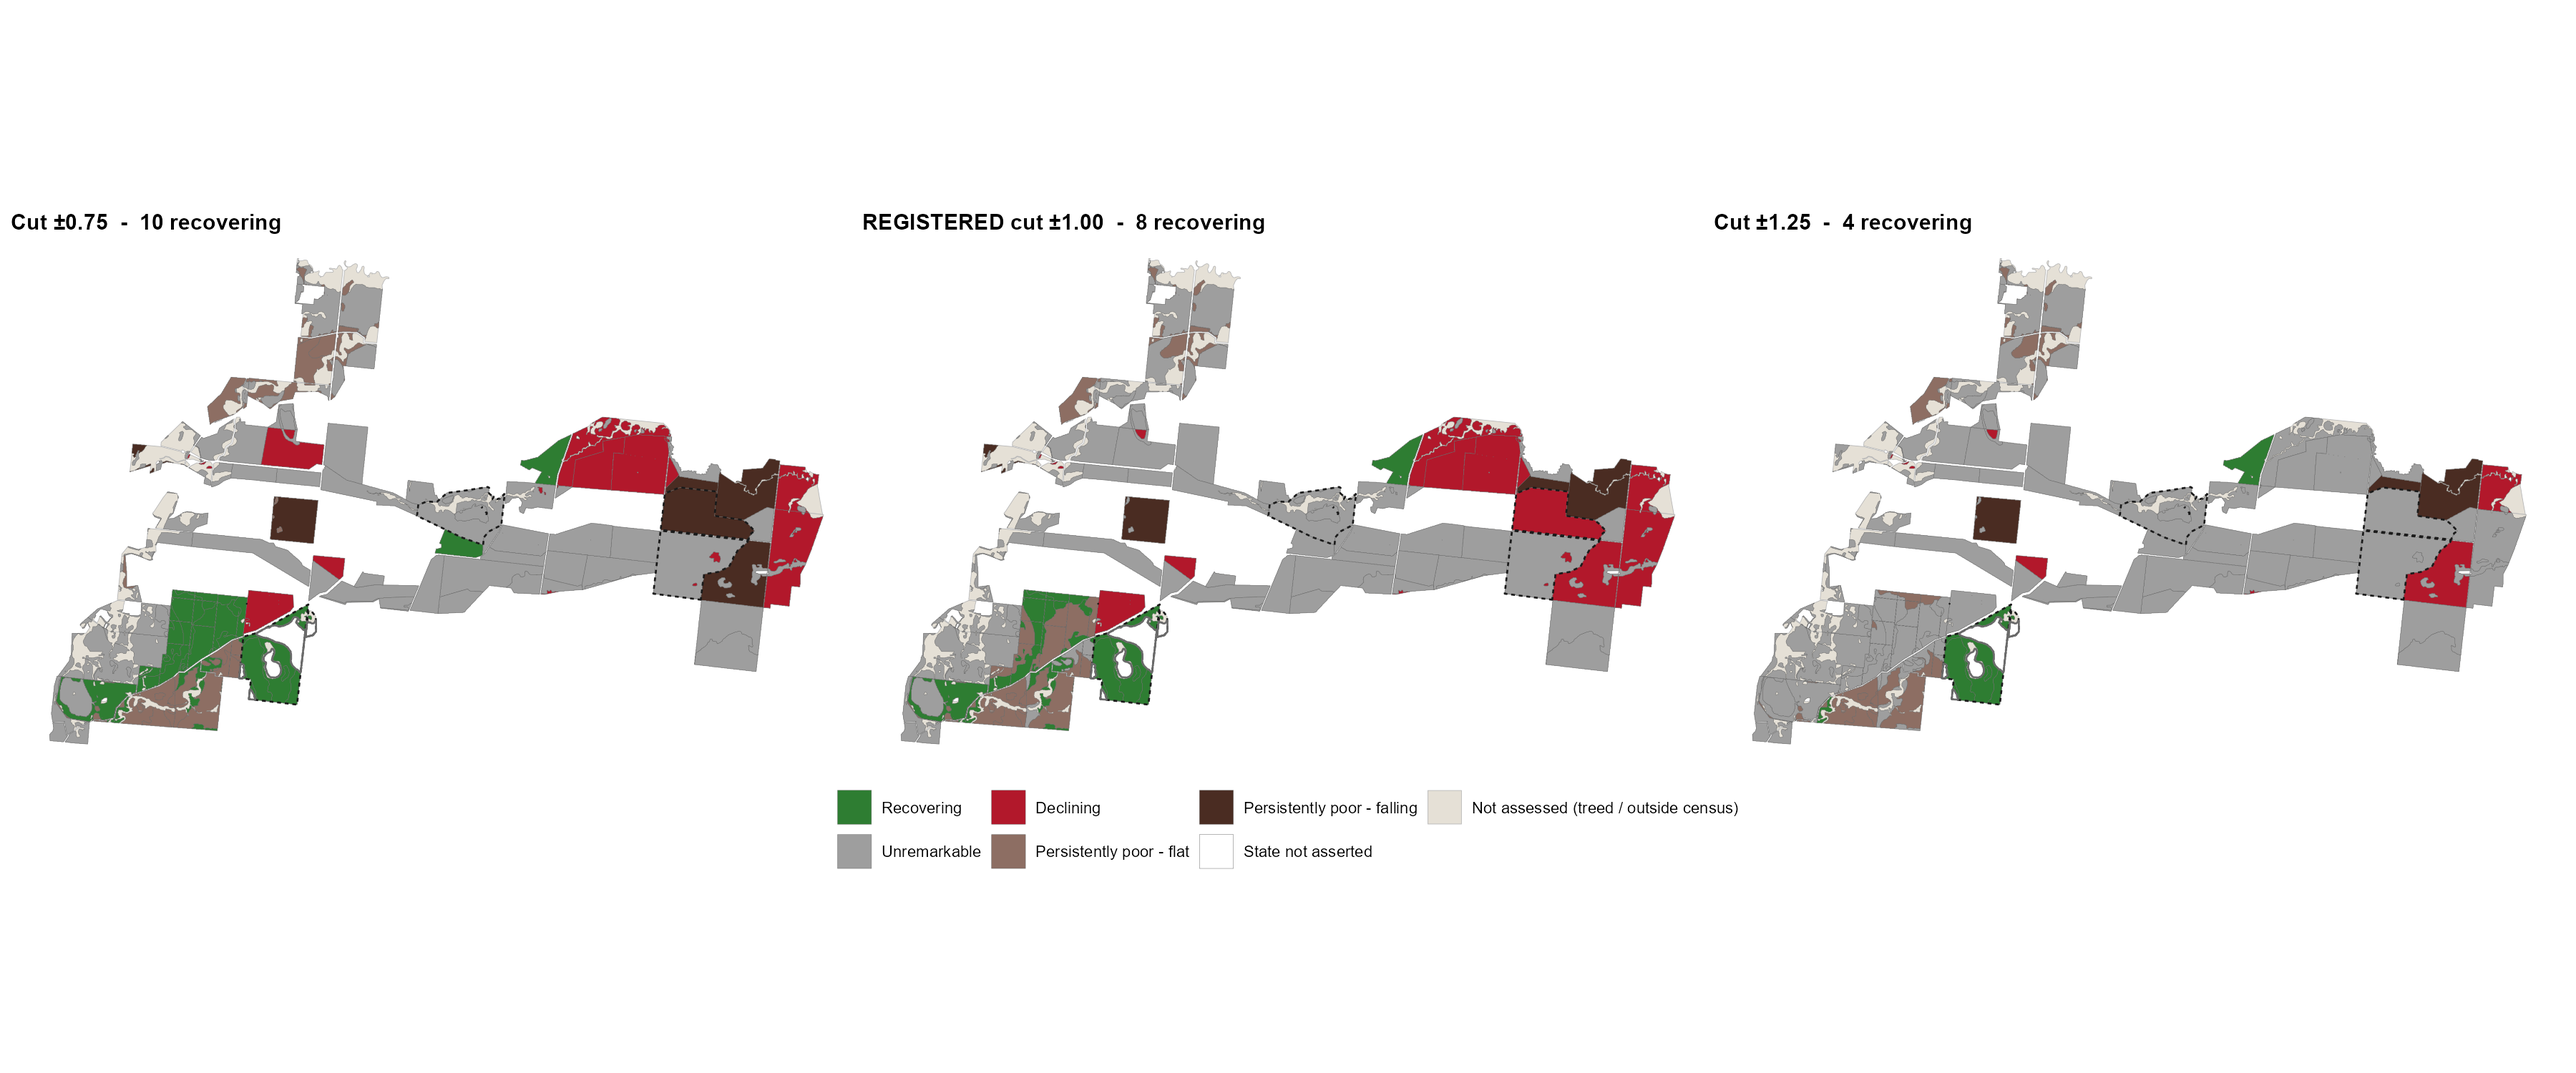
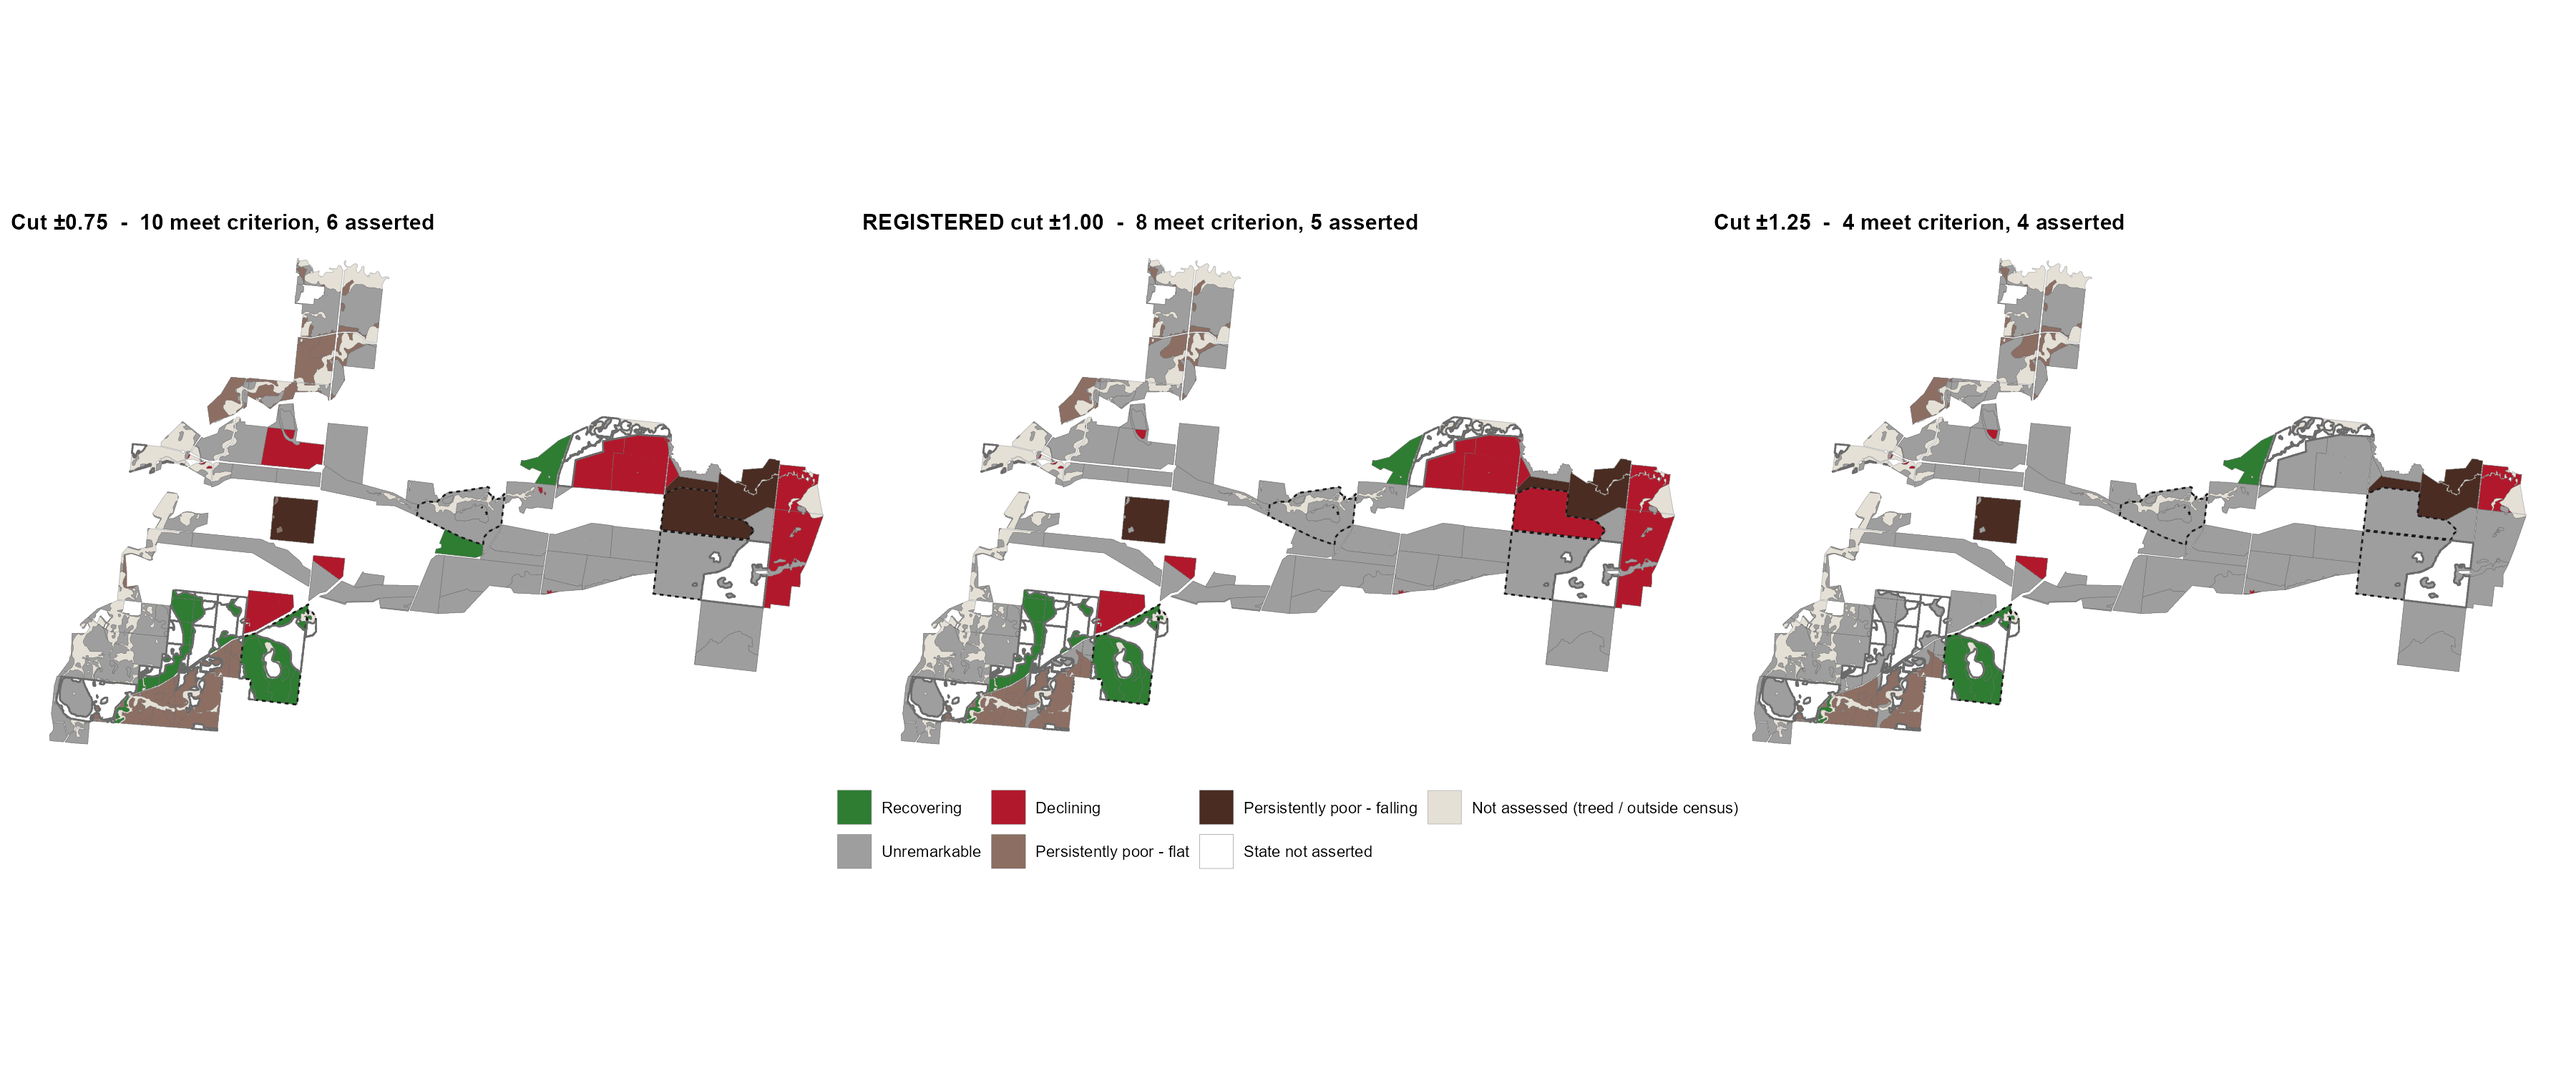
T13 close: assert_state as a criterion (9 parts), figures redrawn, gpkg registry gap logged as I-31
The no-assert rule is now a CRITERION, not a named part: state is not asserted where a
part is BOTH inside the 0.15 marginal band AND changes state under the robustness run.
Nine of 115 qualify - the 12 movers less the 3 outside the band (Dinan 7, Bala 2,
Mara 18, whose states ARE asserted). Stored as fact_zone_community_part_classification
.assert_state beside marginal_band, so the map's reticence is a data property and
reproducible from the table, not a drawing decision.

Not cosmetic: three of the nine are Recovering, so the map headline becomes "8 parts
meet the recovering criterion, 5 asserted" - in the figure title and caption, not
buried. The three parts recovering at EVERY swept cut are among the five (asserted in
the script: no core part may be unasserted; verified 0).

NOTHING IS RECLASSIFIED. state_registered untouched, the rule untouched, registered
counts stand at 8/14/16/77 and the pinned values are unchanged. assert_state governs
what the MAP asserts, not what the data says.

- Both figures redrawn from assert_state rather than a named part, and re-registered.
  Bala 26ca Riverine and Bala 29ca Inland are now both unasserted; Bala 27ca Inland is
  asserted, because it is not a mover - the asymmetry flagged at Gate D is resolved by
  the criterion rather than by a second naming.
- Reproduction test precedent recorded in the change report: do NOT simplify it to
  counting state_registered. That would prove the table agrees with itself. Re-deriving
[…]

diff --git a/scripts/11_database/register_T13_gateE.py b/scripts/11_database/register_T13_gateE.py
@@ -51,6 +51,7 @@ c.execute("""CREATE TABLE IF NOT EXISTS fact_zone_community_part_classification(
   state_cut_050 TEXT, state_cut_075 TEXT, state_cut_100 TEXT, state_cut_125 TEXT, state_cut_150 TEXT,
   state_drop2wettest TEXT, robustness_changed INTEGER,
   dist_to_nearest_cut REAL, marginal_flag INTEGER,
+  assert_state INTEGER,
   cut_registered REAL, marginal_band REAL,
   support_level TEXT, aggregation_unit TEXT, run_id TEXT,
   PRIMARY KEY (zone_fid, community))""")
@@ -69,9 +70,16 @@ for r in cls:
                  r["state_cut_1.25"], r["state_cut_1.50"],
                  r["state_drop2wettest"], changed,
                  round(d, 4), int(d <= BAND or changed == 1),
+                 # assert_state (ruled 31 Jul): the map does not assert a state where a part is
+                 # BOTH inside the marginal band AND changes state under the robustness run.
+                 # A CRITERION, not a named part - naming one part was the ad-hoc-threshold
+                 # problem this task exists to avoid, appearing in a ruling instead of a cut.
+                 # This governs what the MAP asserts, NOT what the data says: nothing is
+                 # reclassified, state_registered is untouched, the registered counts stand.
+                 int(not (d <= BAND and changed == 1)),
                  CUT, BAND, "pixel", "zone_community", RUN))
 c.executemany("INSERT OR REPLACE INTO fact_zone_community_part_classification VALUES ("
-              + ",".join("?" * 27) + ")", rows)
+              + ",".join("?" * 28) + ")", rows)
 print(f"fact_zone_community_part_classification: {len(rows)} rows")
 
 # ---------------------------------------------------------------- 2. dim_headline_number
@@ -145,6 +153,21 @@ mg = c.execute("SELECT COUNT(*) FROM fact_zone_community_part_classification "
                "WHERE marginal_flag=1").fetchone()[0]
 print(f"verify: marginal (band {BAND} on the three real cuts, union movers): {mg}")
 assert mg == 23, mg
+na = c.execute("SELECT COUNT(*) FROM fact_zone_community_part_classification "
+               "WHERE assert_state=0").fetchone()[0]
+print(f"verify: state NOT asserted (in band AND a mover): {na}")
+assert na == 9, na
+ra = dict(c.execute("SELECT assert_state,COUNT(*) FROM fact_zone_community_part_classification "
+                    "WHERE state_registered='Recovering' GROUP BY 1"))
+print(f"verify: Recovering 8 meet the criterion; asserted {ra.get(1,0)}, not asserted {ra.get(0,0)}")
+assert ra == {1: 5, 0: 3}, ra
+# the 3 parts recovering at EVERY swept cut must all survive the assertion rule
+core_na = c.execute(
+    "SELECT COUNT(*) FROM fact_zone_community_part_classification WHERE assert_state=0 AND "
+    "state_cut_050='Recovering' AND state_cut_075='Recovering' AND state_cut_100='Recovering' "
+    "AND state_cut_125='Recovering' AND state_cut_150='Recovering'").fetchone()[0]
+print(f"verify: core parts (recovering at every cut) that are NOT asserted: {core_na} (expect 0)")
+assert core_na == 0, core_na
 print("verify: dim_headline_number T13 rows:",
       c.execute("SELECT COUNT(*) FROM dim_headline_number WHERE number_id LIKE 't13_%'").fetchone()[0])
 print("verify: dim_headline_number total:",

diff --git a/docs/change_reports/T13_gateE_register_and_bundle.md b/docs/change_reports/T13_gateE_register_and_bundle.md
@@ -39,6 +39,47 @@ Verified by independent re-read after commit:
 `marginal_band` value are stored so the definition travels with the data rather than living in
 prose.
 
+### `assert_state` — the map's reticence is a data property, not a drawing decision
+
+**The no-assert rule is a CRITERION, not a named part.** The earlier version named Bala 29ca Inland,
+which was the ad-hoc-threshold problem this whole task exists to avoid, appearing in a ruling
+instead of in a cut. The criterion:
+
+> **State is not asserted where a part is BOTH inside the 0.15 marginal band AND changes state under
+> the robustness run.**
+
+**Nine of 115 qualify** — the 12 robustness movers less the 3 that sit outside the band (Dinan 7
+0.188, Bala 2 0.205, Mara 18 0.391, whose states *are* asserted):
+
+| part | state at the registered cut | dist to cut | state on drop-2 |
+|---|---|---|---|
+| Dinan 8 · Inland | Recovering | 0.111 | Persistently poor |
+| Dinan 9 · Riverine | Recovering | 0.006 | Unremarkable |
+| Dinan 13 · Riverine | Recovering | 0.027 | Unremarkable |
+| Dinan 8 · Riverine | Persistently poor | 0.001 | Unremarkable |
+| Mara 2 · Inland | Persistently poor | 0.008 | Unremarkable |
+| Bala 5 · Inland | Declining | 0.040 | Unremarkable |
+| Bala 12 · Inland | Declining | 0.040 | Unremarkable |
+| Bala 26ca · Riverine | Declining | 0.072 | Unremarkable |
+| Bala 29ca · Inland | Declining | 0.038 | Unremarkable |
+
+Stored as `assert_state` (boolean) beside `marginal_band`, so what the map is willing to claim is a
+**property of the data**, reproducible from the table, rather than a decision taken at drawing time.
+
+**This is not cosmetic.** Three of the nine are *Recovering*, so the map's headline changes:
+
+> **Eight parts meet the recovering criterion. Five of those survive dropping the two wettest
+> years; three do not and are shown as unclassified. The three that recover at every swept cut are
+> among the five.**
+
+That sentence is now the Figure 1 title and caption, and it is the form the finding travels in.
+
+**Nothing is reclassified.** `state_registered` is untouched, the rule is untouched, and **the
+registered counts stand at 8 / 14 / 16 / 77**. `assert_state` governs what the *map asserts*, not
+what the data says — the distinction is recorded in the column comment and asserted in the script
+(`assert_state = 0` count must be 9; *Recovering* must split 5 asserted / 3 not; and **no part that
+recovers at every swept cut may be unasserted** — verified 0).
+
 ## 2. `dim_headline_number` — six rows, sweep range as spread
 
 Registry now **74 rows** (68 before). All six carry the full five qualifiers as columns.
@@ -102,6 +143,19 @@ fixtures on throwaway copies; the real DB untouched:
 Fixture 2 is the one that matters: moving a single part's `trend_z` below the cut is caught in
 **three** places at once, and a test that merely counted the stored state column would have passed.
 
+> ### Precedent — do NOT "simplify" this test by counting the state column
+>
+> The obvious-looking simplification is
+> `SELECT state_registered, COUNT(*) ... GROUP BY 1`. **Do not make it.** That would only prove the
+> table agrees with itself — a tautology, not a test. It cannot detect a mislabelled state, a
+> misapplied cut, or a rule that drifted from the spec, because it never evaluates the rule.
+>
+> Re-deriving from the stored `level_z` / `trend_z` by **applying §5** is what makes it a test.
+> Fixture 2 is the proof: corrupting one part's measure trips three registry rows, and the
+> count-the-column version passes it silently. The same principle sank an earlier check in this
+> project — the 1 July QA row that returns PASS from a stored snapshot rather than from the data,
+> and so cannot notice being wrong. **Verdicts that are derivable must be computed, not stored.**
+
 The pre-existing `--break` fixture still fires (`ref_grazed_floor_gap_4pdk_1988_92`, exit 0 = the
 check fired as expected).
 
@@ -118,7 +172,10 @@ registered classification, and there is currently **no registry for a derived ve
 (`raster_asset` is rasters, `census_asset` is the parquet, `spatial_layer_asset` is imports). Both
 gpkgs are in the exit bundle and both producing scripts are tracked, so the provenance chain is
 complete — but it is complete *outside* the DB. A `vector_output_asset` registry would close it.
-Post-deadline; recorded in the issues log rather than improvised here.
+
+**Logged as `I-31`** in `docs/Gayini_issues_log.md` (IMPROVE, post-deadline), with the explicit
+instruction not to improvise a home for it: putting build outputs in `spatial_layer_asset` would
+corrupt an import registry and break `read_registered_layer()`'s contract.
 
 `fact_zone_community_flood_annual` was created and reconciled at Gate A (4,130 rows, verified again
 here) and needs no further registration — there is no table-of-tables registry.

diff --git a/docs/Gayini_issues_log.md b/docs/Gayini_issues_log.md
@@ -41,6 +41,7 @@ At each task boundary (not each gate): scan `BLOCK` and `EXTERNAL` only. Full re
 
 | ID | Area | Sev | Issue | Affects a deliverable number? | Disposition |
 |---|---|---|---|---|---|
+| **I-31** | Registries / DB | IMPROVE | **No registry exists for a derived VECTOR build output.** `raster_asset` covers rasters, `census_asset` covers the parquet, and `spatial_layer_asset` is an **import** registry — it records layers read in from `Input/`, so a build-output row there is a category error (the same one CLAUDE.md already names for the `Gayini_Results.gpkg:management_zones` companion). Surfaced at T13 Gate E: `Output/spatial_8058/T13_part_polygons_epsg8058.gpkg` is the exact geometry behind a **registered** classification (`fact_zone_community_part_classification`, 115 parts) and its render-only twin, and neither can be registered anywhere without committing that category error. Both were therefore deliberately left unregistered. | **No** — no number changes. But the geometry behind a registered number currently has **no in-DB provenance row**: the chain is complete only via the exit bundle and the two tracked producing scripts | **Do not improvise a home.** Registering build outputs in `spatial_layer_asset` would corrupt an import registry and break `read_registered_layer()`'s contract. The fix is a new `vector_output_asset` table on the `raster_asset` pattern (path, layer, CRS, feature count, first-50-MB SHA-256, `path_exists`, `run_id`, producing script). **Post-deadline.** Meanwhile provenance lives in `Output/review_bundles/t13_paddock_part_classification.zip` and `build_T13_gateD_part_polygons.R` / `build_T13_gateD_render_geom.R` |
 | **I-02** | Spine / T2 | **BLOCK** | Within-stratum `veg_p05` spread across the reference paddocks (fids 1–4) **exceeds the reference-vs-grazed contrast in 6 of 9 strata** — every Riverine and every Inland Floodplain band. Riverine-high: 36.5 pp within-reference (29.83→66.33) vs +8.25 pp pixel-weighted contrast (zone-support even smaller, +3.6/+0.1/−2.1). **A fixed distance-to-reference target is undefined in those strata.** Quantified at T2 Gate A (`v_zone_stratum_treatment_contrast` × per-fid `v_census_by_zone_stratum`). | **Yes** — T2 is the substrate for that metric | **Spine decision, not a build one.** The substrate is still correct to build (T2 proceeds). Then a spine-chat decision: narrow reference / per-stratum target / environmentally-defined (HCAS 3.3) / report heterogeneity as the finding. Do not work around it in the build |
 | **I-03** | Task J | **EXTERNAL** | Jana email unsent — cut-date provenance (L07) and bank geometry (L10). Sole remaining blocker on Task J. | No — analysis complete | Send one email and proceed regardless, per `Gayini_path_to_Aug10.md`. Outstanding since ~18 July |
 | **I-04** | T2 / S5 | **EXTERNAL** | `dim_management_zone.cropping_history` and four other RESERVED columns NULL pending Ernest's land-use table. So conserved-vs-**grazed** is available; conserved-vs-**formerly-cropped** is not. | Constrains the claim, not a number | Build what the data supports; name the gap in every caption. Graduate to limitations register |

diff --git a/docs/change_reports/T13_gateD_map.md b/docs/change_reports/T13_gateD_map.md
@@ -145,9 +145,12 @@ so the classification and the measures under it sit side by side (§6).
   membership or threshold changed.
 - **Hatching** on the 23 marginal parts (§2).
 - **Heavier black outline** on the **3-part core** — recovering at every swept cut.
-- **Bala 29ca · Inland is drawn with no state asserted** (white, its own legend entry). It is
-  marginal on both axes (`level_z` −0.962, 0.038 from the cut; `trend_z` −1.108) and changes state
-  under robustness. Asserting *Declining* on a map would overstate what the data supports.
+- **Nine parts are drawn with no state asserted** (white, own legend entry) — **superseding the
+  earlier single named part.** The rule is a criterion, not a chosen part: *both* inside the 0.15
+  marginal band *and* a robustness mover. Read from `assert_state` in the DB, so the map's reticence
+  is a data property. Three of the nine are *Recovering*, so **the map's headline is 8 meeting the
+  criterion and 5 asserted** — stated in the title, not buried. Full list and rationale in the Gate E
+  report §1.
 - **Four reference paddocks** distinguished by a dashed heavy outline; paddock boundaries drawn and
   labelled; **north arrow and scale bar** drawn from geometry; **deck palette, not viridis**.
 - **Scatter**: threshold lines at `level_z` −1.0 and `trend_z` ±1.0, with the ±0.15 marginal band
@@ -263,10 +266,11 @@ not a robustness mover** — it stays *Declining* when the two wettest years are
 and 26ca both fall to *Unremarkable*. Surviving the robustness run is a better warrant for asserting
 a state than distance to a cut, so **27ca's state is asserted** and 29ca's is not, exactly as ruled.
 
-**Flagged for your call:** by the same test, **Bala 26ca · Riverine is in 29ca's position, not
-27ca's** — marginal on trend and a robustness mover. It is currently drawn as *Declining* because
-the ruling named only 29ca. It is hatched, so the map does not claim certainty, but the treatment is
-asymmetric. Say if you want it abstained too.
+**RESOLVED, 31 July 2026.** The asymmetry flagged here — that **Bala 26ca · Riverine** is in 29ca's
+position rather than 27ca's — was fixed by **replacing the named part with a criterion**: state is
+not asserted where a part is both inside the marginal band and a robustness mover. Bala 26ca
+Riverine and Bala 29ca Inland are both unasserted under it; **Bala 27ca Inland is asserted**,
+because it is not a mover. Nine parts qualify in total. See Gate E report §1.
 
 **On Bala 27ca specifically:** this is a third independent route to the same conclusion — no
 monitoring sites, the smallest cross-sectional residual, a negative water-adjusted paddock trend at
